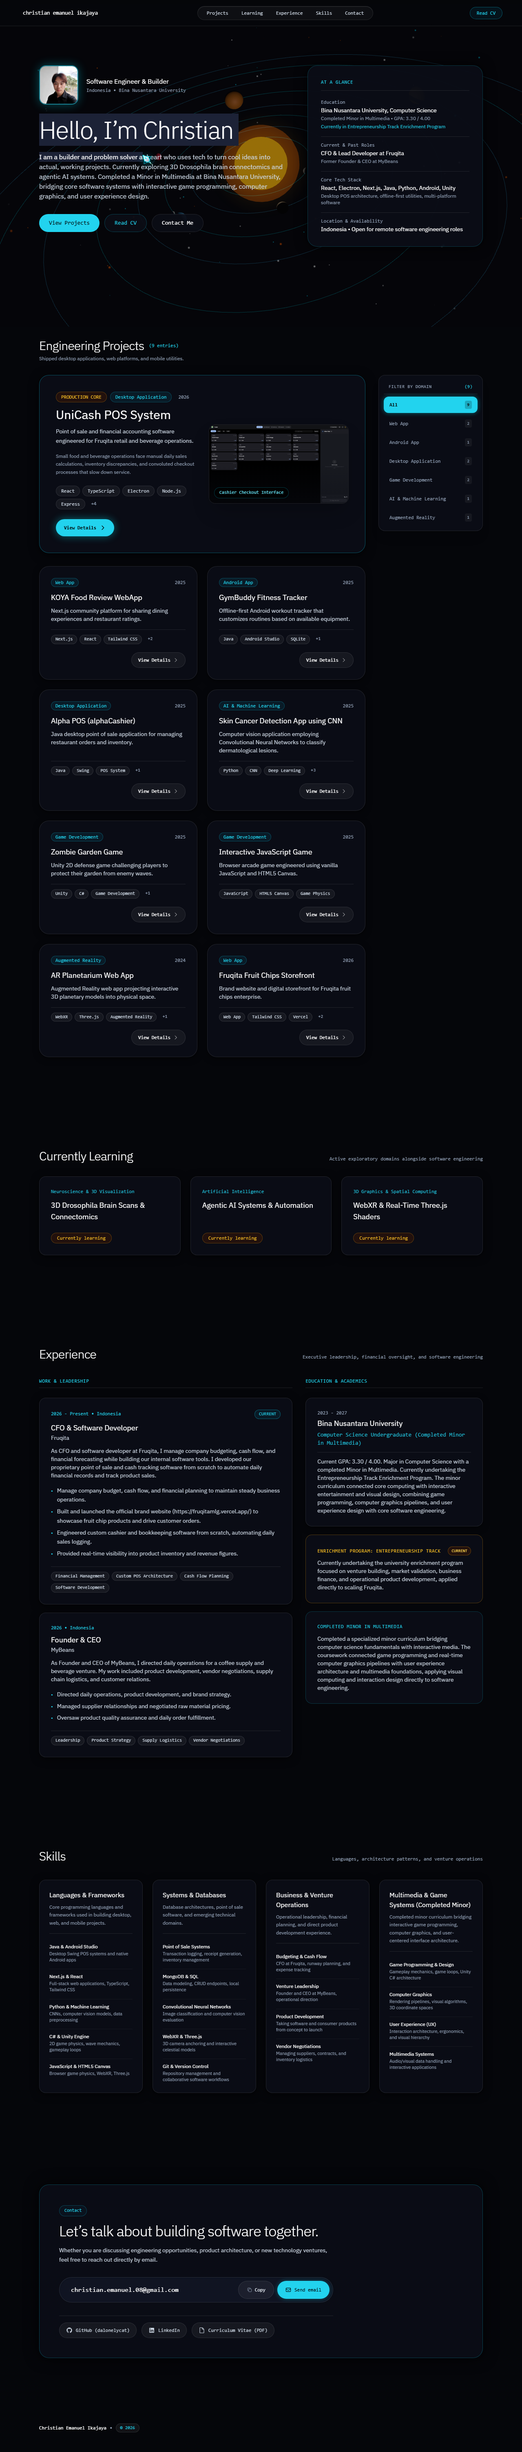
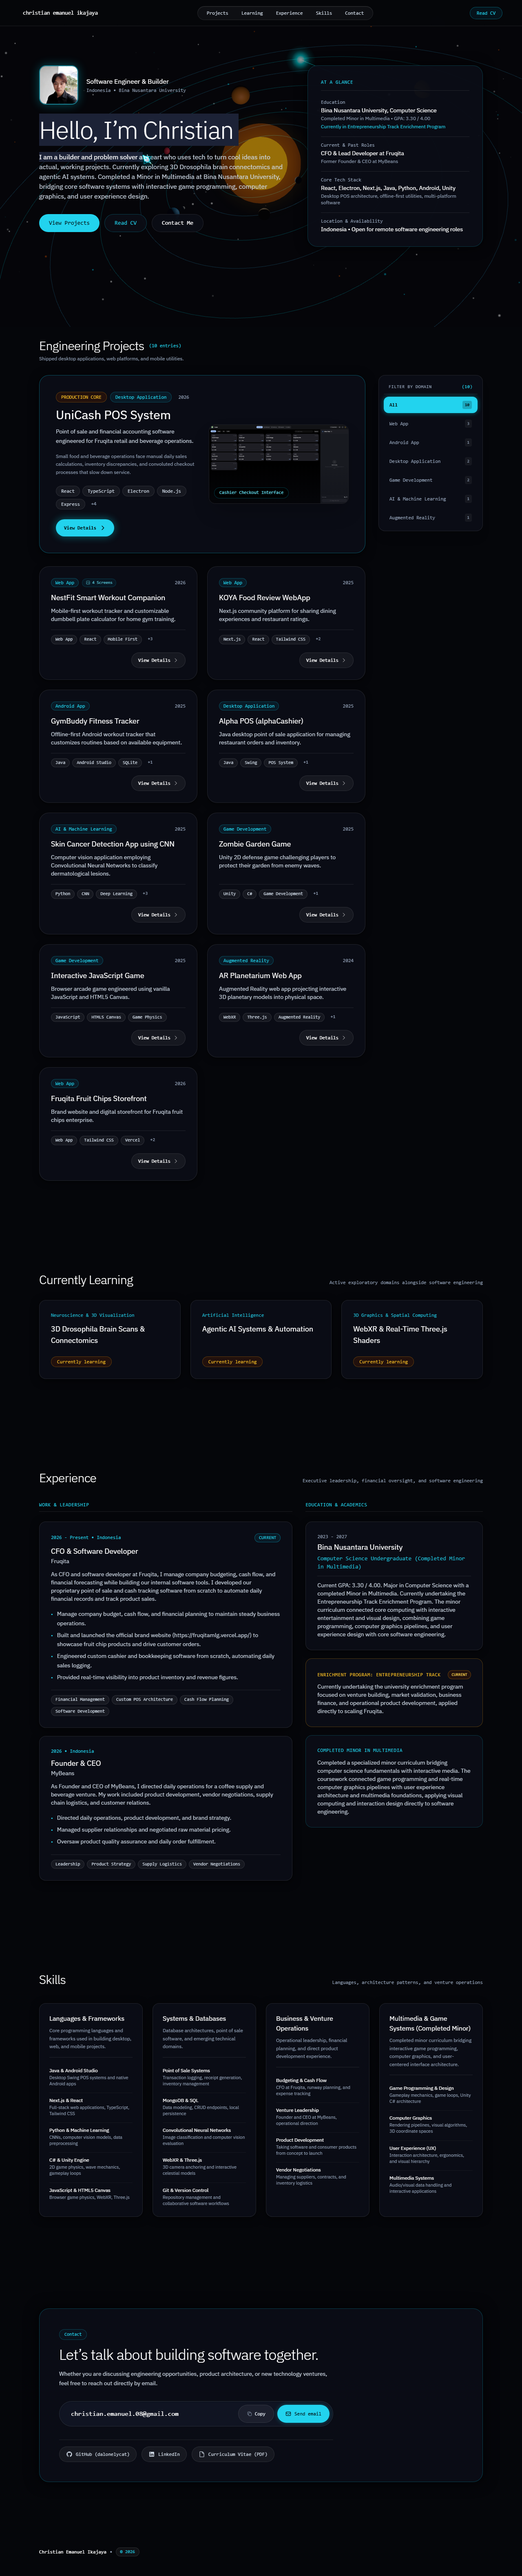
Add NestFit Smart Dumbbell & Workout Companion project with screenshots and live link

diff --git a/src/data/portfolio.ts b/src/data/portfolio.ts
@@ -85,6 +85,46 @@ export const portfolioData: PortfolioData = {
       featured: true,
     },
     {
+      id: "nestfit-workout",
+      title: "NestFit Smart Workout Companion",
+      tagline: "Mobile-first workout tracker and customizable dumbbell plate calculator for home gym training.",
+      category: "Web App",
+      year: "2026",
+      overview:
+        "A responsive, mobile-first workout companion and equipment manager engineered in 2026 for personal training. NestFit specializes in modular spinlock dumbbells and barbell conversion setups, dynamically calculating symmetrical plate configurations, sleeve limits, and daily workout volume.",
+      problem:
+        "Training with adjustable spinlock dumbbell sets requires mental math to balance plates symmetrically, account for collar and handle weights, and organize exercises across available equipment without internet connectivity.",
+      solution:
+        "Engineered a responsive, mobile-first web application featuring an interactive visual plate setup diagram, 16 weight presets, 175-exercise movement database with multi-filter tagging, equipment inventory management (handles, collars, 19kg plates breakdown), and muscle readiness tracking.",
+      impact:
+        "Streamlined daily home workouts by automating plate math, preventing asymmetrical loading, and delivering an offline-friendly workout workflow on mobile and desktop devices.",
+      tags: ["Web App", "React", "Mobile First", "Fitness Tech", "Tailwind CSS", "Algorithm Design"],
+      screenshots: [
+        {
+          src: "/projects/nestfit-calculator.png",
+          label: "Weight Calculator",
+          caption: "Modular dumbbell plate setup diagram with sleeve capacity and symmetrical weight distribution",
+        },
+        {
+          src: "/projects/nestfit-workout.png",
+          label: "Workout Session",
+          caption: "Active workout session view with daily directive, readiness telemetry, and exercise set tracking",
+        },
+        {
+          src: "/projects/nestfit-inventory.png",
+          label: "Equipment Inventory",
+          caption: "Hardware equipment inventory tracking handles, barbell connector adapter, collars, and plate weight breakdown",
+        },
+        {
+          src: "/projects/nestfit-exercises.png",
+          label: "Exercise Database",
+          caption: "Categorized exercise catalog with 175 movements filtered by muscle group and equipment type",
+        },
+      ],
+      liveUrl: "https://workout.dalonelycat.site/",
+      featured: true,
+    },
+    {
       id: "koya-food-review",
       title: "KOYA Food Review WebApp",
       tagline: "Next.js community platform for sharing dining experiences and restaurant ratings.",

diff --git a/src/components/Projects.tsx b/src/components/Projects.tsx
@@ -174,9 +174,19 @@ export function Projects({ projects, categories }: ProjectsProps) {
                       >
                         <div>
                           <div className="flex items-center justify-between gap-2 mb-3">
-                            <span className="text-xs font-mono text-cyan-400 px-2.5 py-0.5 rounded-full bg-cyan-950/40 border border-cyan-500/30">
-                              {project.category}
-                            </span>
+                            <div className="flex items-center gap-2">
+                              <span className="text-xs font-mono text-cyan-400 px-2.5 py-0.5 rounded-full bg-cyan-950/40 border border-cyan-500/30">
+                                {project.category}
+                              </span>
+                              {project.screenshots && project.screenshots.length > 0 && (
+                                <span className="text-[10px] font-mono text-cyan-300/80 px-2 py-0.5 rounded-full bg-cyan-950/30 border border-cyan-500/20 flex items-center gap-1">
+                                  <svg className="w-3 h-3" fill="none" viewBox="0 0 24 24" stroke="currentColor">
+                                    <path strokeLinecap="round" strokeLinejoin="round" strokeWidth={1.5} d="M4 16l4.586-4.586a2 2 0 012.828 0L16 16m-2-2l1.586-1.586a2 2 0 012.828 0L20 14m-6-6h.01M6 20h12a2 2 0 002-2V6a2 2 0 00-2-2H6a2 2 0 00-2 2v12a2 2 0 002 2z" />
+                                  </svg>
+                                  {project.screenshots.length} Screens
+                                </span>
+                              )}
+                            </div>
                             <span className="text-xs font-mono text-slate-400">
                               {project.year}
                             </span>

diff --git a/src/components/ProjectModal.tsx b/src/components/ProjectModal.tsx
@@ -97,12 +97,12 @@ export function ProjectModal({ project, onClose }: ProjectModalProps) {
           <div className="grid grid-cols-1 lg:grid-cols-12 gap-8 items-start">
             {/* Left Column: High-Res Screenshot Viewer & Actions */}
             <div className="lg:col-span-7 space-y-4">
-              <div className="relative w-full aspect-video rounded-2xl overflow-hidden border border-white/15 bg-black/60 shadow-inner">
+              <div className="relative w-full aspect-video sm:aspect-[16/10] min-h-[340px] sm:min-h-[420px] rounded-2xl overflow-hidden border border-white/15 bg-black/60 shadow-inner flex items-center justify-center">
                 <Image
                   src={screenshots[activeShot].src}
                   alt={screenshots[activeShot].caption}
                   fill
-                  className="object-contain"
+                  className="object-contain p-2"
                   sizes="(max-width: 1024px) 100vw, 680px"
                   priority
                 />
